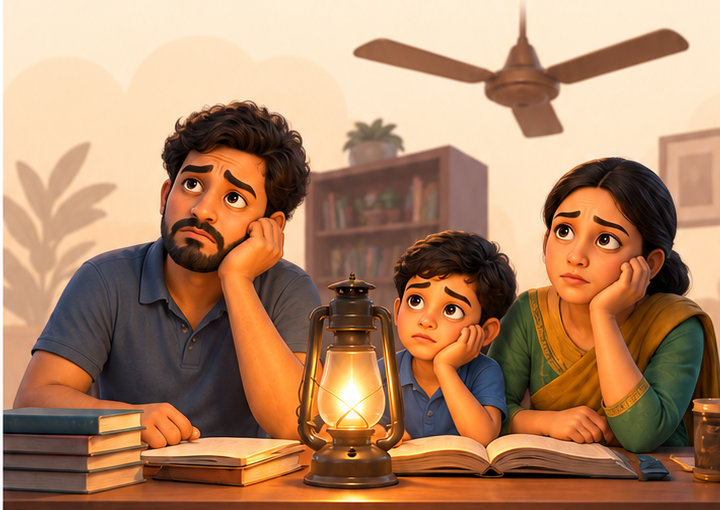
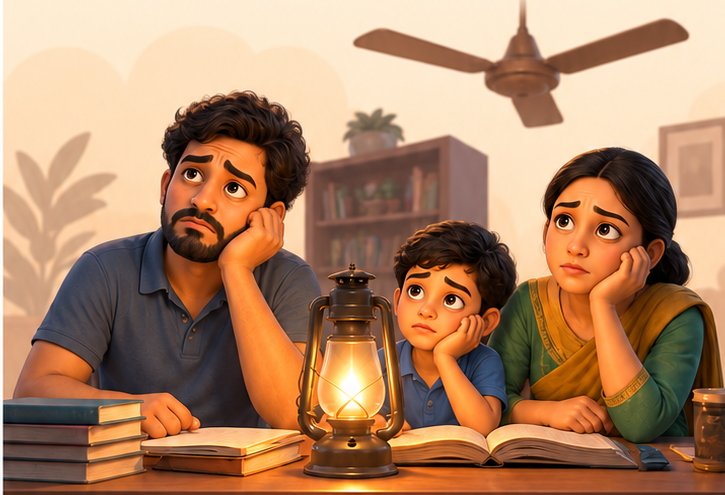
chore: update service illustration assets
Optimize and update PNG illustration files for better performance and consistency.

diff --git a/src/components/category/CategoryHeroSlider.tsx b/src/components/category/CategoryHeroSlider.tsx
@@ -216,52 +216,50 @@ export const CategoryHeroSlider: React.FC<CategoryHeroSliderProps> = ({
         className={`w-full rounded-2xl border p-4 sm:p-5 md:p-7 shadow-2xs relative overflow-hidden transition-colors ${className}`}
         style={containerStyle}
       >
-        <div className="grid grid-cols-1 md:grid-cols-2 items-center gap-4 md:gap-6 w-full">
-          {/* Copy Block */}
-          <div className="min-w-0 space-y-2 sm:space-y-2.5 text-center md:text-left z-10 md:col-start-1 md:row-start-1">
+        <div className="flex items-center justify-between gap-4 md:gap-6 min-h-[130px] sm:min-h-[140px] md:min-h-[160px]">
+          {/* Left Text Content */}
+          <div className="min-w-0 flex-1 space-y-2 sm:space-y-2.5 text-left z-10">
             <h1 className="type-h1 text-ui-content-primary tracking-tight">
               {language === 'bn' ? slide.titleBn : slide.titleEn}
             </h1>
-            <p className="type-body text-ui-content-secondary max-w-2xl mx-auto md:mx-0">
+            <p className="type-body text-ui-content-secondary max-w-2xl">
               {language === 'bn' ? slide.descriptionBn : slide.descriptionEn}
             </p>
+            {slide.action && (
+              <div className="pt-1.5 sm:pt-2">
+                <Button
+                  id={`${id}-cta-btn`}
+                  variant="primary"
+                  size="md"
+                  onClick={slide.action.onClick}
+                  style={{
+                    backgroundColor: `var(--sec-${sectionKey}-primary)`,
+                    color: `var(--sec-${sectionKey}-on-primary)`,
+                  }}
+                  className="w-full sm:w-auto shadow-xs"
+                >
+                  {language === 'bn' ? slide.action.labelBn : slide.action.labelEn}
+                </Button>
+              </div>
+            )}
           </div>
 
-          {/* Image Block */}
-          <div className="min-w-0 w-full flex items-center justify-center md:justify-end relative pointer-events-none select-none md:col-start-2 md:row-start-1 md:row-span-2">
+          {/* Right Illustration Safe Area (Phase 1 Quiet Placeholder) */}
+          <div className="shrink-0 w-28 sm:w-40 md:w-52 lg:w-60 h-full min-h-[120px] sm:min-h-[140px] md:min-h-[160px] flex items-center justify-end relative pointer-events-none select-none">
             {slide.illustrationSrc ? (
               <img
                 src={slide.illustrationSrc}
                 alt=""
                 aria-hidden="true"
-                className="w-full max-w-full h-auto max-h-[220px] sm:max-h-[260px] md:max-h-[190px] object-contain object-center md:object-right mx-auto"
+                className="w-full h-full max-h-[150px] sm:max-h-[170px] md:max-h-[190px] object-contain object-right"
               />
             ) : (
               <div
                 aria-hidden="true"
-                className="w-24 h-24 sm:w-32 sm:h-32 md:w-36 md:h-36 rounded-2xl bg-ui-surface-subtle/60 border border-ui-stroke-subtle/40 opacity-40 shrink-0 mx-auto md:ml-auto md:mr-0"
+                className="w-20 h-20 sm:w-28 sm:h-28 md:w-36 md:h-36 rounded-2xl bg-ui-surface-subtle/60 border border-ui-stroke-subtle/40 opacity-40 shrink-0"
               />
             )}
           </div>
-
-          {/* CTA Block (if action exists) */}
-          {slide.action && (
-            <div className="w-full flex justify-center md:justify-start pt-1 sm:pt-1.5 md:pt-2 md:col-start-1 md:row-start-2">
-              <Button
-                id={`${id}-cta-btn`}
-                variant="primary"
-                size="md"
-                onClick={slide.action.onClick}
-                style={{
-                  backgroundColor: `var(--sec-${sectionKey}-primary)`,
-                  color: `var(--sec-${sectionKey}-on-primary)`,
-                }}
-                className="w-full sm:w-full md:w-auto shadow-xs"
-              >
-                {language === 'bn' ? slide.action.labelBn : slide.action.labelEn}
-              </Button>
-            </div>
-          )}
         </div>
       </section>
     );
@@ -315,9 +313,9 @@ export const CategoryHeroSlider: React.FC<CategoryHeroSliderProps> = ({
               aria-hidden={!isActive}
               className="w-full shrink-0 p-4 sm:p-5 md:p-7 min-w-full"
             >
-              <div className="grid grid-cols-1 md:grid-cols-2 items-center gap-4 md:gap-6 w-full">
-                {/* Copy Block */}
-                <div className="min-w-0 space-y-2 sm:space-y-2.5 text-center md:text-left z-10 md:col-start-1 md:row-start-1">
+              <div className="flex items-center justify-between gap-4 md:gap-6 min-h-[130px] sm:min-h-[140px] md:min-h-[160px]">
+                {/* Left Text Content */}
+                <div className="min-w-0 flex-1 space-y-2 sm:space-y-2.5 text-left z-10">
                   {index === 0 ? (
                     <h1 className="type-h1 text-ui-content-primary tracking-tight">
                       {language === 'bn' ? slide.titleBn : slide.titleEn}
@@ -328,47 +326,46 @@ export const CategoryHeroSlider: React.FC<CategoryHeroSliderProps> = ({
                     </h2>
                   )}
 
-                  <p className="type-body text-ui-content-secondary max-w-2xl mx-auto md:mx-0">
+                  <p className="type-body text-ui-content-secondary max-w-2xl">
                     {language === 'bn' ? slide.descriptionBn : slide.descriptionEn}
                   </p>
+
+                  {slide.action && (
+                    <div className="pt-1.5 sm:pt-2">
+                      <Button
+                        id={`${id}-cta-btn-${index}`}
+                        variant="primary"
+                        size="md"
+                        tabIndex={isActive ? 0 : -1}
+                        onClick={slide.action.onClick}
+                        style={{
+                          backgroundColor: `var(--sec-${sectionKey}-primary)`,
+                          color: `var(--sec-${sectionKey}-on-primary)`,
+                        }}
+                        className="w-full sm:w-auto shadow-xs"
+                      >
+                        {language === 'bn' ? slide.action.labelBn : slide.action.labelEn}
+                      </Button>
+                    </div>
+                  )}
                 </div>
 
-                {/* Image Block */}
-                <div className="min-w-0 w-full flex items-center justify-center md:justify-end relative pointer-events-none select-none md:col-start-2 md:row-start-1 md:row-span-2">
+                {/* Right Illustration Safe Area */}
+                <div className="shrink-0 w-28 sm:w-40 md:w-52 lg:w-60 h-full min-h-[120px] sm:min-h-[140px] md:min-h-[160px] flex items-center justify-end relative pointer-events-none select-none">
                   {slide.illustrationSrc ? (
                     <img
                       src={slide.illustrationSrc}
                       alt=""
                       aria-hidden="true"
-                      className="w-full max-w-full h-auto max-h-[220px] sm:max-h-[260px] md:max-h-[190px] object-contain object-center md:object-right mx-auto"
+                      className="w-full h-full max-h-[150px] sm:max-h-[170px] md:max-h-[190px] object-contain object-right"
                     />
                   ) : (
                     <div
                       aria-hidden="true"
-                      className="w-24 h-24 sm:w-32 sm:h-32 md:w-36 md:h-36 rounded-2xl bg-ui-surface-subtle/60 border border-ui-stroke-subtle/40 opacity-40 shrink-0 mx-auto md:ml-auto md:mr-0"
+                      className="w-20 h-20 sm:w-28 sm:h-28 md:w-36 md:h-36 rounded-2xl bg-ui-surface-subtle/60 border border-ui-stroke-subtle/40 opacity-40 shrink-0"
                     />
                   )}
                 </div>
-
-                {/* CTA Block */}
-                {slide.action && (
-                  <div className="w-full flex justify-center md:justify-start pt-1 sm:pt-1.5 md:pt-2 md:col-start-1 md:row-start-2">
-                    <Button
-                      id={`${id}-cta-btn-${index}`}
-                      variant="primary"
-                      size="md"
-                      tabIndex={isActive ? 0 : -1}
-                      onClick={slide.action.onClick}
-                      style={{
-                        backgroundColor: `var(--sec-${sectionKey}-primary)`,
-                        color: `var(--sec-${sectionKey}-on-primary)`,
-                      }}
-                      className="w-full sm:w-full md:w-auto shadow-xs"
-                    >
-                      {language === 'bn' ? slide.action.labelBn : slide.action.labelEn}
-                    </Button>
-                  </div>
-                )}
               </div>
             </div>
           );

diff --git a/src/components/home/ServiceHeroCarousel.tsx b/src/components/home/ServiceHeroCarousel.tsx
@@ -51,22 +51,22 @@ export const ServiceHeroCarousel: React.FC<ServiceHeroCarouselProps> = ({
     {
       key: 'harassment',
       nameBn: 'হয়রানি ও নির্যাতন',
-      nameEn: 'Harassment & Abuse',
-      descBn: 'হয়রানি বা নির্যাতনের ঘটনা জানান।',
-      descEn: 'Report harassment or abusive incidents.',
+      nameEn: 'Harassment & abuse',
+      descBn: 'শারীরিক বা মানসিক নির্যাতন, নিপীড়ন ও অনলাইনে হেনস্তার তথ্য জানান।',
+      descEn: 'Report incidents of harassment, abuse, or safety violations.',
       primaryCtaBn: 'রিপোর্ট করুন',
-      primaryCtaEn: 'Report now',
+      primaryCtaEn: 'Report issue',
       path: '/harassment',
       illustrationSrc: '/illustrations/services/harassment-hero-public-harassment-v02.png',
     },
     {
       key: 'rickshaw',
-      nameBn: 'ঝুঁকিপূর্ণ চার্জিং',
-      nameEn: 'Unsafe Charging',
-      descBn: 'অনিরাপদ ব্যাটারি চার্জিংয়ের তথ্য জানান।',
-      descEn: 'Report unsafe battery charging.',
+      nameBn: 'অবৈধ অটো চার্জিং',
+      nameEn: 'Illegal auto-rickshaw charging',
+      descBn: 'অবৈধ বা ঝুঁকিপূর্ণ চার্জিং স্টেশনের অবস্থান ও তথ্য দিন।',
+      descEn: 'Share the location and details of illegal or unsafe charging stations.',
       primaryCtaBn: 'রিপোর্ট করুন',
-      primaryCtaEn: 'Report now',
+      primaryCtaEn: 'Report issue',
       path: '/rickshaw',
       illustrationSrc: '/illustrations/services/rickshaw-hero-illegal-charging-station-v02.png',
     },
@@ -74,21 +74,21 @@ export const ServiceHeroCarousel: React.FC<ServiceHeroCarouselProps> = ({
       key: 'extortion',
       nameBn: 'চাঁদাবাজি',
       nameEn: 'Extortion',
-      descBn: 'অবৈধ চাঁদা বা হুমকির তথ্য জানান।',
-      descEn: 'Report illegal demands or threats.',
+      descBn: 'দোকানপাট, পরিবহন বা এলাকায় অবৈধ চাঁদা দাবি ও হুমকির তথ্য জানান।',
+      descEn: 'Report extortion, illegal tolls, or coercive demands.',
       primaryCtaBn: 'রিপোর্ট করুন',
-      primaryCtaEn: 'Report now',
+      primaryCtaEn: 'Report issue',
       path: '/extortion',
       illustrationSrc: '/illustrations/services/extortion-hero-shopkeeper-coercion-v02.png',
     },
     {
       key: 'load_shedding',
-      nameBn: 'ইউটিলিটি সমস্যা',
-      nameEn: 'Utility Issues',
-      descBn: 'বিদ্যুৎ, গ্যাস বা বিলিং সমস্যা জানান।',
-      descEn: 'Report power, gas or billing issues.',
+      nameBn: SECTIONS.load_shedding.nameBn,
+      nameEn: SECTIONS.load_shedding.nameEn,
+      descBn: SECTIONS.load_shedding.descriptionBn,
+      descEn: SECTIONS.load_shedding.descriptionEn,
       primaryCtaBn: 'রিপোর্ট করুন',
-      primaryCtaEn: 'Report now',
+      primaryCtaEn: 'Report issue',
       path: '/load-shedding',
       illustrationSrc: '/illustrations/services/load-shedding-hero-family-blackout-v01.png',
     },
@@ -317,51 +317,50 @@ export const ServiceHeroCarousel: React.FC<ServiceHeroCarouselProps> = ({
                 backgroundColor: `var(--sec-${slide.key}-bg)`,
               }}
             >
-              <div className="grid grid-cols-1 md:grid-cols-2 items-center gap-4 md:gap-6 w-full">
-                {/* Copy Block */}
-                <div className="min-w-0 space-y-1.5 sm:space-y-2 text-center md:text-left z-10 md:col-start-1 md:row-start-1">
+              <div className="flex items-center justify-between gap-3 sm:gap-4 md:gap-6 min-h-[130px] sm:min-h-[140px] md:min-h-[160px] h-full">
+                {/* Left Text Content */}
+                <div className="min-w-0 flex-1 space-y-1.5 sm:space-y-2 text-left z-10">
                   <h2 className="type-h2 text-ui-content-primary tracking-tight">
                     {language === 'bn' ? slide.nameBn : slide.nameEn}
                   </h2>
 
-                  <p className="type-body text-ui-content-secondary max-w-2xl mx-auto md:mx-0">
+                  <p className="type-body text-ui-content-secondary max-w-2xl">
                     {language === 'bn' ? slide.descBn : slide.descEn}
                   </p>
+
+                  <div className="pt-1.5 sm:pt-2">
+                    <Button
+                      id={`${id}-report-btn-${slide.key}`}
+                      variant="primary"
+                      size="md"
+                      tabIndex={isActive ? 0 : -1}
+                      onClick={() => openReportComposer()}
+                      style={{
+                        backgroundColor: `var(--sec-${slide.key}-primary)`,
+                        color: `var(--sec-${slide.key}-on-primary)`,
+                      }}
+                      className="w-auto shadow-xs"
+                    >
+                      {language === 'bn' ? slide.primaryCtaBn : slide.primaryCtaEn}
+                    </Button>
+                  </div>
                 </div>
 
-                {/* Image Block */}
-                <div className="min-w-0 w-full flex items-center justify-center md:justify-end relative pointer-events-none select-none md:col-start-2 md:row-start-1 md:row-span-2">
+                {/* Right Illustration Safe Area */}
+                <div className="shrink-0 w-24 min-[380px]:w-28 sm:w-40 md:w-52 lg:w-60 h-full min-h-[120px] sm:min-h-[140px] md:min-h-[160px] flex items-center justify-end relative pointer-events-none select-none">
                   {slide.illustrationSrc ? (
                     <img
                       src={slide.illustrationSrc}
                       alt=""
                       aria-hidden="true"
-                      className="w-full max-w-full h-auto max-h-[220px] sm:max-h-[260px] md:max-h-[190px] object-contain object-center md:object-right mx-auto"
+                      className="w-full h-full max-h-[150px] sm:max-h-[170px] md:max-h-[190px] object-contain object-right"
                     />
                   ) : (
                     <div
                       aria-hidden="true"
-                      className="w-24 h-24 sm:w-32 sm:h-32 md:w-36 md:h-36 rounded-2xl bg-ui-surface-subtle/60 border border-ui-stroke-subtle/40 opacity-40 shrink-0 mx-auto md:ml-auto md:mr-0"
+                      className="w-16 h-16 min-[380px]:w-20 min-[380px]:h-20 sm:w-28 sm:h-28 md:w-36 md:h-36 rounded-2xl bg-ui-surface-subtle/60 border border-ui-stroke-subtle/40 opacity-40 shrink-0"
                     />
                   )}
-                </div>
-
-                {/* CTA Block */}
-                <div className="w-full flex justify-center md:justify-start pt-1 sm:pt-1.5 md:pt-2 md:col-start-1 md:row-start-2">
-                  <Button
-                    id={`${id}-report-btn-${slide.key}`}
-                    variant="primary"
-                    size="md"
-                    tabIndex={isActive ? 0 : -1}
-                    onClick={() => openReportComposer()}
-                    style={{
-                      backgroundColor: `var(--sec-${slide.key}-primary)`,
-                      color: `var(--sec-${slide.key}-on-primary)`,
-                    }}
-                    className="w-full sm:w-full md:w-auto shadow-xs"
-                  >
-                    {language === 'bn' ? slide.primaryCtaBn : slide.primaryCtaEn}
-                  </Button>
                 </div>
               </div>
             </div>

diff --git a/src/pages/UtilityPage.tsx b/src/pages/UtilityPage.tsx
@@ -1,5 +1,6 @@
 import React, { useState, useEffect, useMemo, useCallback } from 'react';
 import { AlertCircle, Info } from 'lucide-react';
+import { SECTIONS } from '../theme/tokens';
 import { PublicReportService } from '../services/publicReportService';
 import { useTaxonomy } from '../services/taxonomyService';
 import { ReportItem } from '../types/report';
@@ -14,7 +15,8 @@ import { useApp } from '../context/AppContext';
 
 export const UtilityPage: React.FC = () => {
   const { language, openReportComposer } = useApp();
-  const { getFeedSubcategories } = useTaxonomy();
+  const { getFeedSubcategories, getSegment } = useTaxonomy();
+  const config = getSegment('load_shedding') || SECTIONS.load_shedding;
 
   const [selectedSubcat, setSelectedSubcat] = useState<string>('all');
   const [selectedDistrict, setSelectedDistrict] = useState<string>('all');
@@ -64,10 +66,10 @@ export const UtilityPage: React.FC = () => {
         slides={[
           {
             id: 'utility-primary',
-            titleBn: 'ইউটিলিটি সমস্যা',
-            titleEn: 'Utility Issues',
-            descriptionBn: 'বিদ্যুৎ, গ্যাস বা বিলিং সমস্যা জানান।',
-            descriptionEn: 'Report power, gas or billing issues.',
+            titleBn: config.nameBn,
+            titleEn: config.nameEn,
+            descriptionBn: config.descriptionBn,
+            descriptionEn: config.descriptionEn,
             illustrationSrc: '/illustrations/services/load-shedding-hero-family-blackout-v01.png',
             action: {
               labelBn: 'প্রতিবেদন জমা দিন',

diff --git a/src/pages/RickshawPage.tsx b/src/pages/RickshawPage.tsx
@@ -1,6 +1,8 @@
 import React, { useState, useEffect, useMemo, useCallback } from 'react';
 import { AlertCircle, Info } from 'lucide-react';
+import { SECTIONS } from '../theme/tokens';
 import { PublicReportService } from '../services/publicReportService';
+import { useTaxonomy } from '../services/taxonomyService';
 import { ReportItem } from '../types/report';
 import { ReportCard } from '../components/report/ReportCard';
 import { LocationSelector } from '../components/feed/LocationSelector';
@@ -12,6 +14,8 @@ import { useApp } from '../context/AppContext';
 
 export const RickshawPage: React.FC = () => {
   const { language } = useApp();
+  const { getSegment } = useTaxonomy();
+  const config = getSegment('rickshaw') || SECTIONS.rickshaw;
 
   const [selectedDistrict, setSelectedDistrict] = useState<string>('all');
 
@@ -57,10 +61,10 @@ export const RickshawPage: React.FC = () => {
         slides={[
           {
             id: 'rickshaw-primary',
-            titleBn: 'ঝুঁকিপূর্ণ চার্জিং',
-            titleEn: 'Unsafe Charging',
-            descriptionBn: 'অনিরাপদ ব্যাটারি চার্জিংয়ের তথ্য জানান।',
-            descriptionEn: 'Report unsafe battery charging.',
+            titleBn: config.nameBn,
+            titleEn: config.nameEn,
+            descriptionBn: config.descriptionBn,
+            descriptionEn: config.descriptionEn,
             illustrationSrc: '/illustrations/services/rickshaw-hero-illegal-charging-station-v02.png',
           },
         ]}

diff --git a/src/pages/ExtortionPage.tsx b/src/pages/ExtortionPage.tsx
@@ -1,5 +1,6 @@
 import React, { useState, useEffect, useMemo, useCallback } from 'react';
 import { AlertCircle, PhoneCall } from 'lucide-react';
+import { SECTIONS } from '../theme/tokens';
 import { PublicReportService } from '../services/publicReportService';
 import { useTaxonomy } from '../services/taxonomyService';
 import { ReportItem } from '../types/report';
@@ -14,7 +15,8 @@ import { useApp } from '../context/AppContext';
 
 export const ExtortionPage: React.FC = () => {
   const { language } = useApp();
-  const { getFeedSubcategories } = useTaxonomy();
+  const { getFeedSubcategories, getSegment } = useTaxonomy();
+  const config = getSegment('extortion') || SECTIONS.extortion;
 
   const [selectedSubcat, setSelectedSubcat] = useState<string>('all');
   const [selectedDistrict, setSelectedDistrict] = useState<string>('all');
@@ -64,10 +66,10 @@ export const ExtortionPage: React.FC = () => {
         slides={[
           {
             id: 'extortion-primary',
-            titleBn: 'চাঁদাবাজি',
-            titleEn: 'Extortion',
-            descriptionBn: 'অবৈধ চাঁদা বা হুমকির তথ্য জানান।',
-            descriptionEn: 'Report illegal demands or threats.',
+            titleBn: config.nameBn,
+            titleEn: config.nameEn,
+            descriptionBn: config.descriptionBn,
+            descriptionEn: config.descriptionEn,
             illustrationSrc: '/illustrations/services/extortion-hero-shopkeeper-coercion-v02.png',
           },
         ]}
